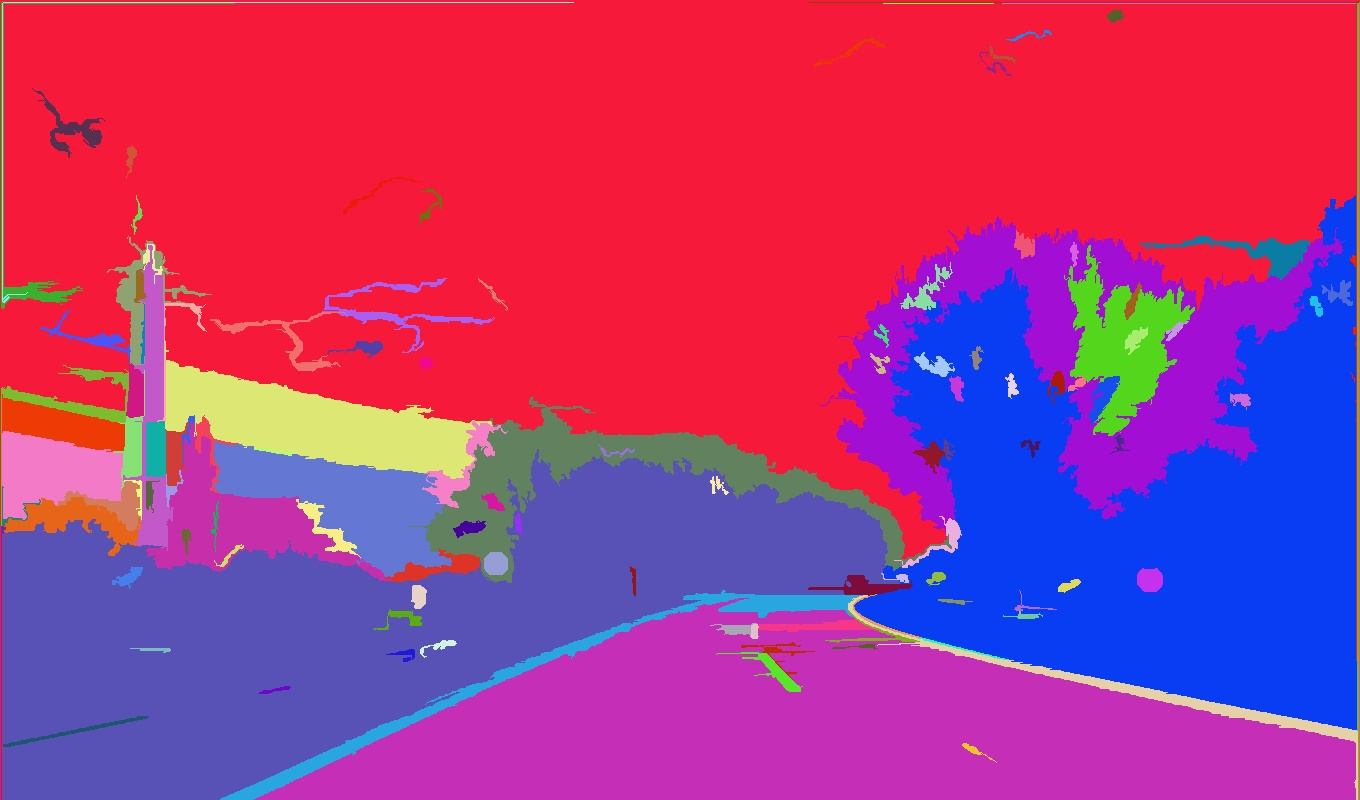
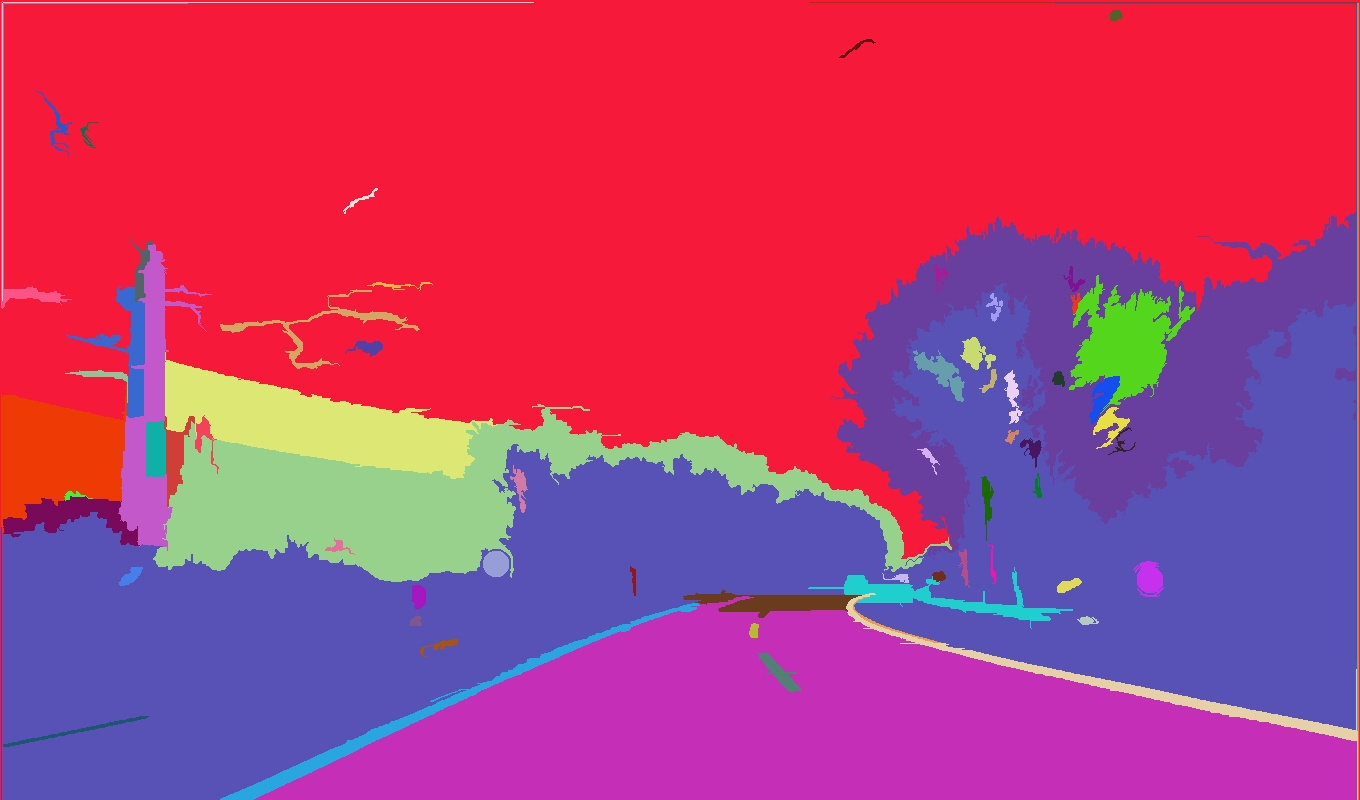
add the trackBar for debug

diff --git a/segment/segment-image.h b/segment/segment-image.h
@@ -54,27 +54,29 @@ static inline float diff(IplImage *r, IplImage *g, IplImage *b,
  *
  * Returns a color image representing the segmentation.
  *
- * im: image to segment.
+ * input: image to segment.
  * sigma: to smooth the image.
  * c: constant for treshold function.
  * min_size: minimum component size (enforced by post-processing stage).
  * num_ccs: number of connected components in the segmentation.
  */
-IplImage *segment_image(IplImage *im, float sigma, float c, int min_size,
-			  int *num_ccs) {
-	int width = im->width;
-	int height = im->height;
+void segment_image(int min_size) {
+	int width = input->width;
+	int height = input->height;
+	std::cout << "k:" << k << std::endl;
+	std::cout << "min_size:" << min_size << std::endl;
+	
+	IplImage *r = cvCreateImage(cvSize(width, height), input->depth,1);
+	IplImage *g = cvCreateImage(cvSize(width, height), input->depth, 1);
+	IplImage *b = cvCreateImage(cvSize(width, height), input->depth, 1);
+	cvSplit(input, b, g, r,NULL);
 
-	IplImage *r = cvCreateImage(cvSize(width, height), im->depth,1);
-	IplImage *g = cvCreateImage(cvSize(width, height), im->depth, 1);
-	IplImage *b = cvCreateImage(cvSize(width, height), im->depth, 1);
-	cvSplit(im, b, g, r,NULL);
+	IplImage *smooth_r = cvCreateImage(cvSize(width, height), input->depth, 1);
+	IplImage *smooth_g = cvCreateImage(cvSize(width, height), input->depth, 1);
+	IplImage *smooth_b = cvCreateImage(cvSize(width, height), input->depth, 1);
 
-	IplImage *smooth_r = cvCreateImage(cvSize(width, height), im->depth, 1);
-	IplImage *smooth_g = cvCreateImage(cvSize(width, height), im->depth, 1);
-	IplImage *smooth_b = cvCreateImage(cvSize(width, height), im->depth, 1);
-
-
+	sigma = sigmaInt*0.01;
+	std::cout << "sigma:" << sigma << std::endl;
 	cvSmooth(r, smooth_r, CV_GAUSSIAN, 5, 5, sigma, sigma);
 	cvSmooth(g, smooth_g, CV_GAUSSIAN, 5, 5, sigma, sigma);
 	cvSmooth(b, smooth_b, CV_GAUSSIAN, 5, 5, sigma, sigma);
@@ -123,7 +125,7 @@ IplImage *segment_image(IplImage *im, float sigma, float c, int min_size,
   cvReleaseImage(&smooth_b);
 
   // segment
-  universe *u = segment_graph(width*height, num, edges, c);
+  universe *u = segment_graph(width*height, num, edges, k);
   
   // post process small components
   for (int i = 0; i < num; i++) {
@@ -133,9 +135,10 @@ IplImage *segment_image(IplImage *im, float sigma, float c, int min_size,
       u->join(a, b);
   }
   delete [] edges;
-  *num_ccs = u->num_sets();
+  num_ccs = u->num_sets();
+  std::cout << "component number:" << num_ccs << std::endl;
 
-  IplImage *output = cvCreateImage(cvSize(width, height),IPL_DEPTH_8U,im->nChannels);
+  output = cvCreateImage(cvSize(width, height),IPL_DEPTH_8U,input->nChannels);
 
   // pick random colors for each component
   rgb *colors = new rgb[width*height];
@@ -156,7 +159,10 @@ IplImage *segment_image(IplImage *im, float sigma, float c, int min_size,
   delete [] colors;  
   delete u;
 
-  return output;
+  cvShowImage("Seg", output);
+  cvWaitKey(5);
+
+  //return output;
 }
 
 #endif

diff --git a/segment/segment.cpp b/segment/segment.cpp
@@ -22,9 +22,6 @@ Foundation, Inc., 59 Temple Place, Suite 330, Boston, MA  02111-1307 USA
 #include "segment-image.h"
 #include <opencv2\opencv.hpp>
 
-float sigma = 0.8;
-float k = 500;
-int min_size = 100;
 
 int main(int argc, char **argv) {
 
@@ -33,19 +30,22 @@ int main(int argc, char **argv) {
   int width = src->width;
   int height = src->height;	
 
-  IplImage *input = cvCreateImage(cvSize(width, height), IPL_DEPTH_32F, src->nChannels);
+  input = cvCreateImage(cvSize(width, height), IPL_DEPTH_32F, src->nChannels);
   cvConvertScale(src, input,1.0/255);
 
   printf("processing\n");
-  int num_ccs; 
-  IplImage *seg = segment_image(input, sigma, k, min_size, &num_ccs);
+  //int num_ccs; 
+  segment_image(min_size);
   
   //show result
-  cvShowImage("input", input);
+  cvShowImage("Seg", output);
   cvWaitKey(5);
-  cvShowImage("Seg", seg);
-  cvWaitKey(5);
-  cvSaveImage("Img\\result.jpg", seg);
+  cvSaveImage("Img\\result.jpg", output);
+
+  cvNamedWindow("Seg");
+  cvCreateTrackbar("k", "Seg", &k, 2000, segment_image);
+  cvCreateTrackbar("min_size", "Seg", &min_size,1000, segment_image);
+  cvCreateTrackbar("sigma*0.01", "Seg", &sigmaInt, 100, segment_image);
 
   printf("got %d components\n", num_ccs);
   printf("done! uff...thats hard work.\n");

diff --git a/segment/disjoint-set.h b/segment/disjoint-set.h
@@ -18,6 +18,14 @@ Foundation, Inc., 59 Temple Place, Suite 330, Boston, MA  02111-1307 USA
 
 #ifndef DISJOINT_SET
 #define DISJOINT_SET
+#include <opencv2\opencv.hpp>
+int sigmaInt = 80;
+float sigma = 0.01*sigmaInt;
+int k = 900;
+int min_size = 100;
+IplImage *output = NULL;
+IplImage *input = NULL;
+int num_ccs = 0;
 
 // disjoint-set forests using union-by-rank and path compression (sort of).
 
